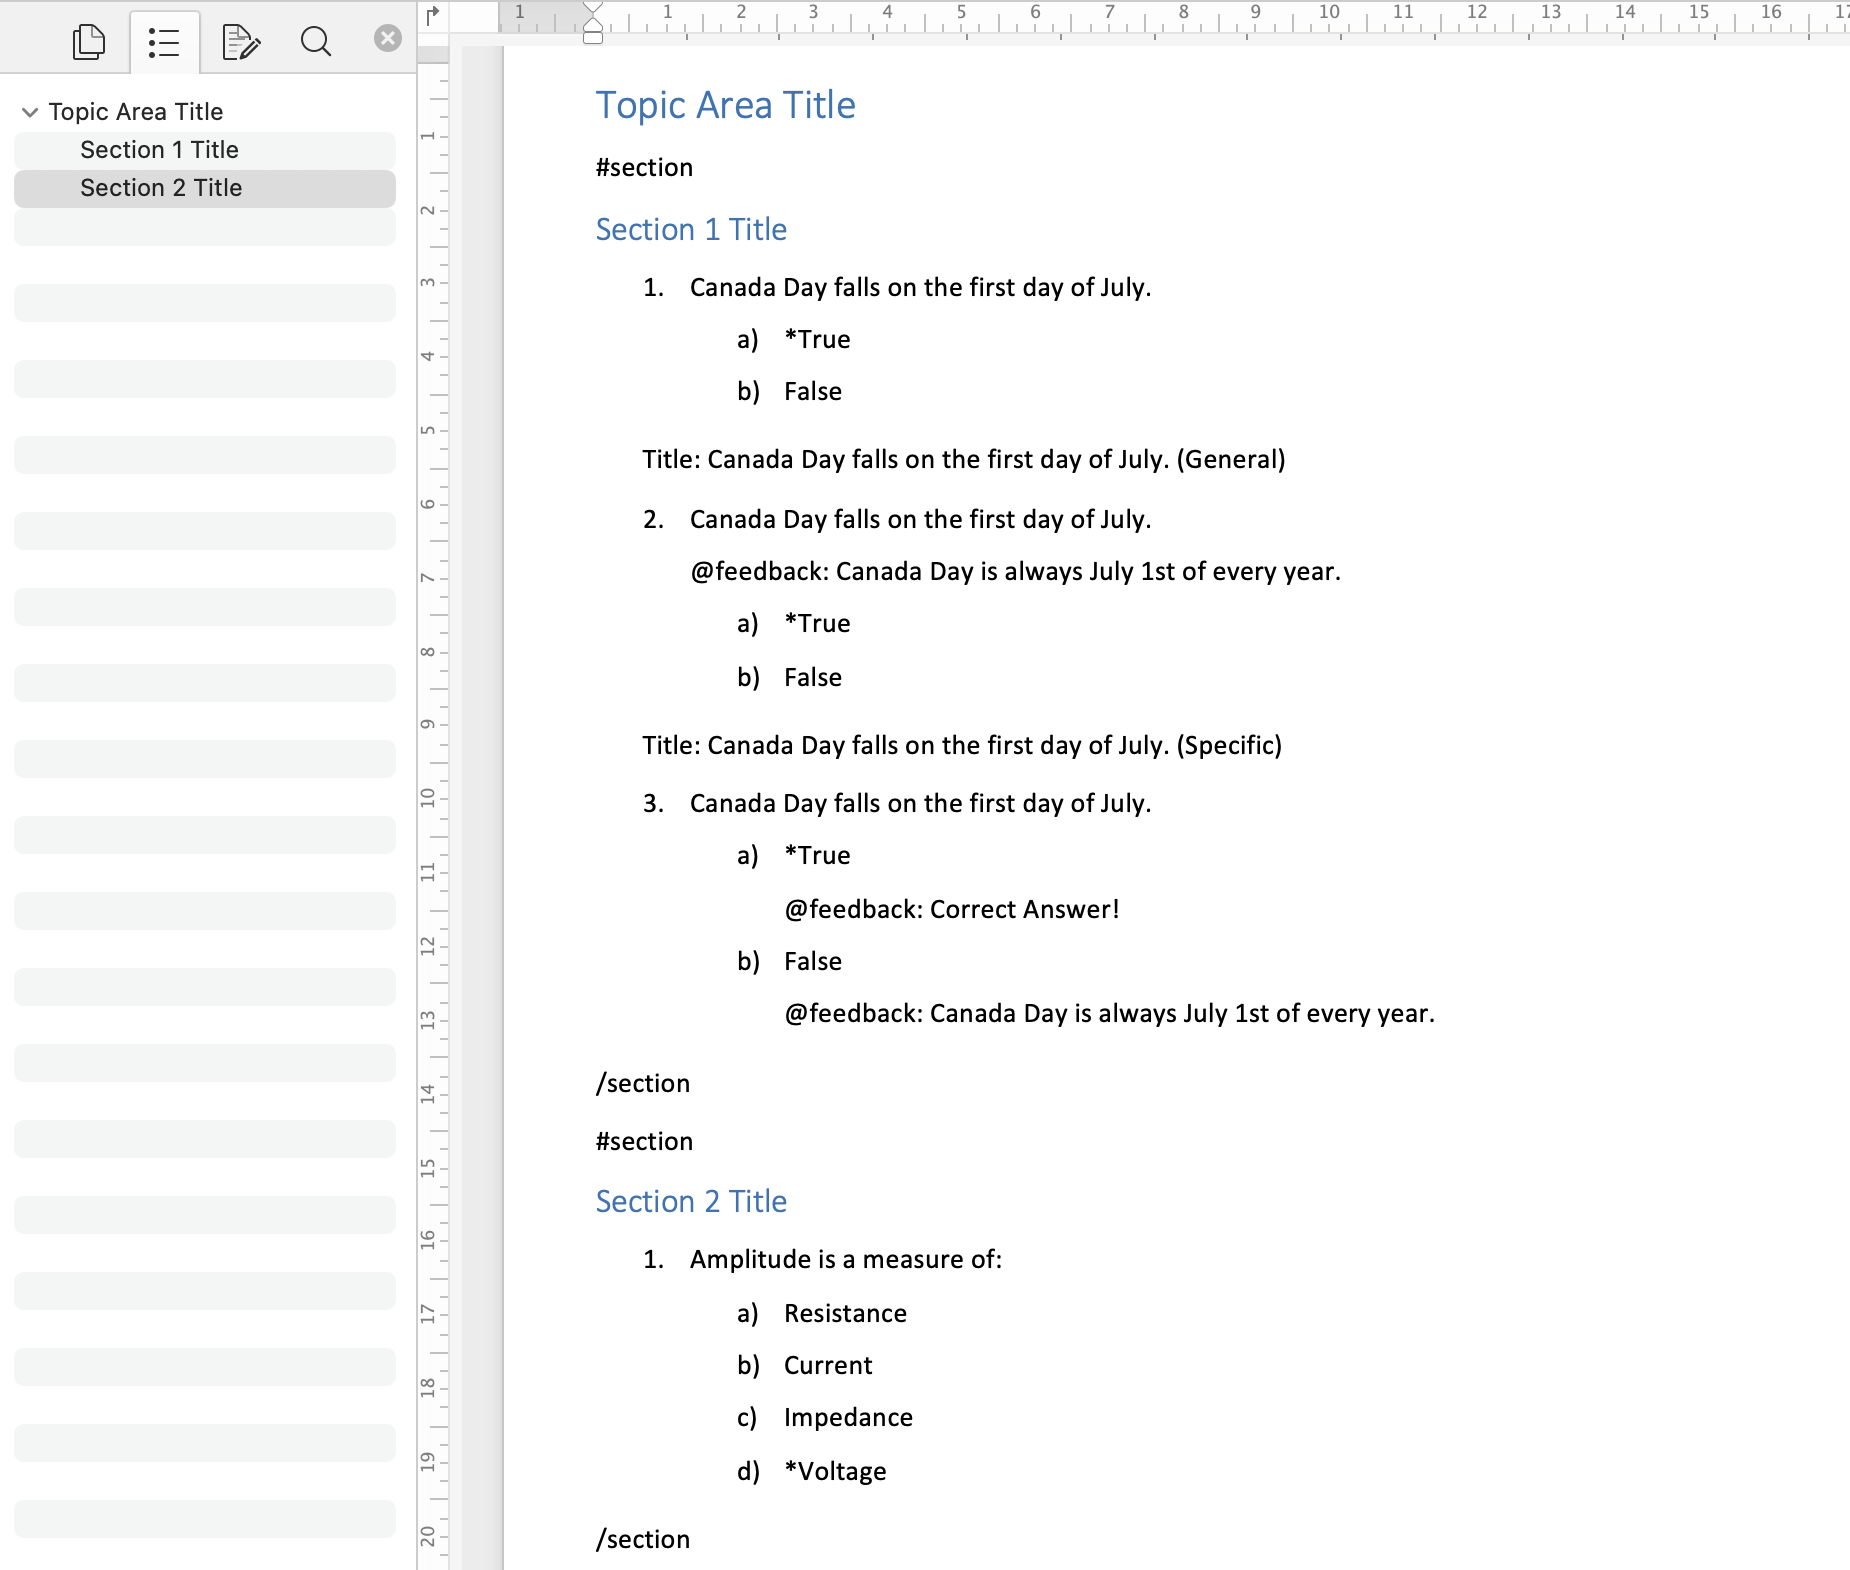
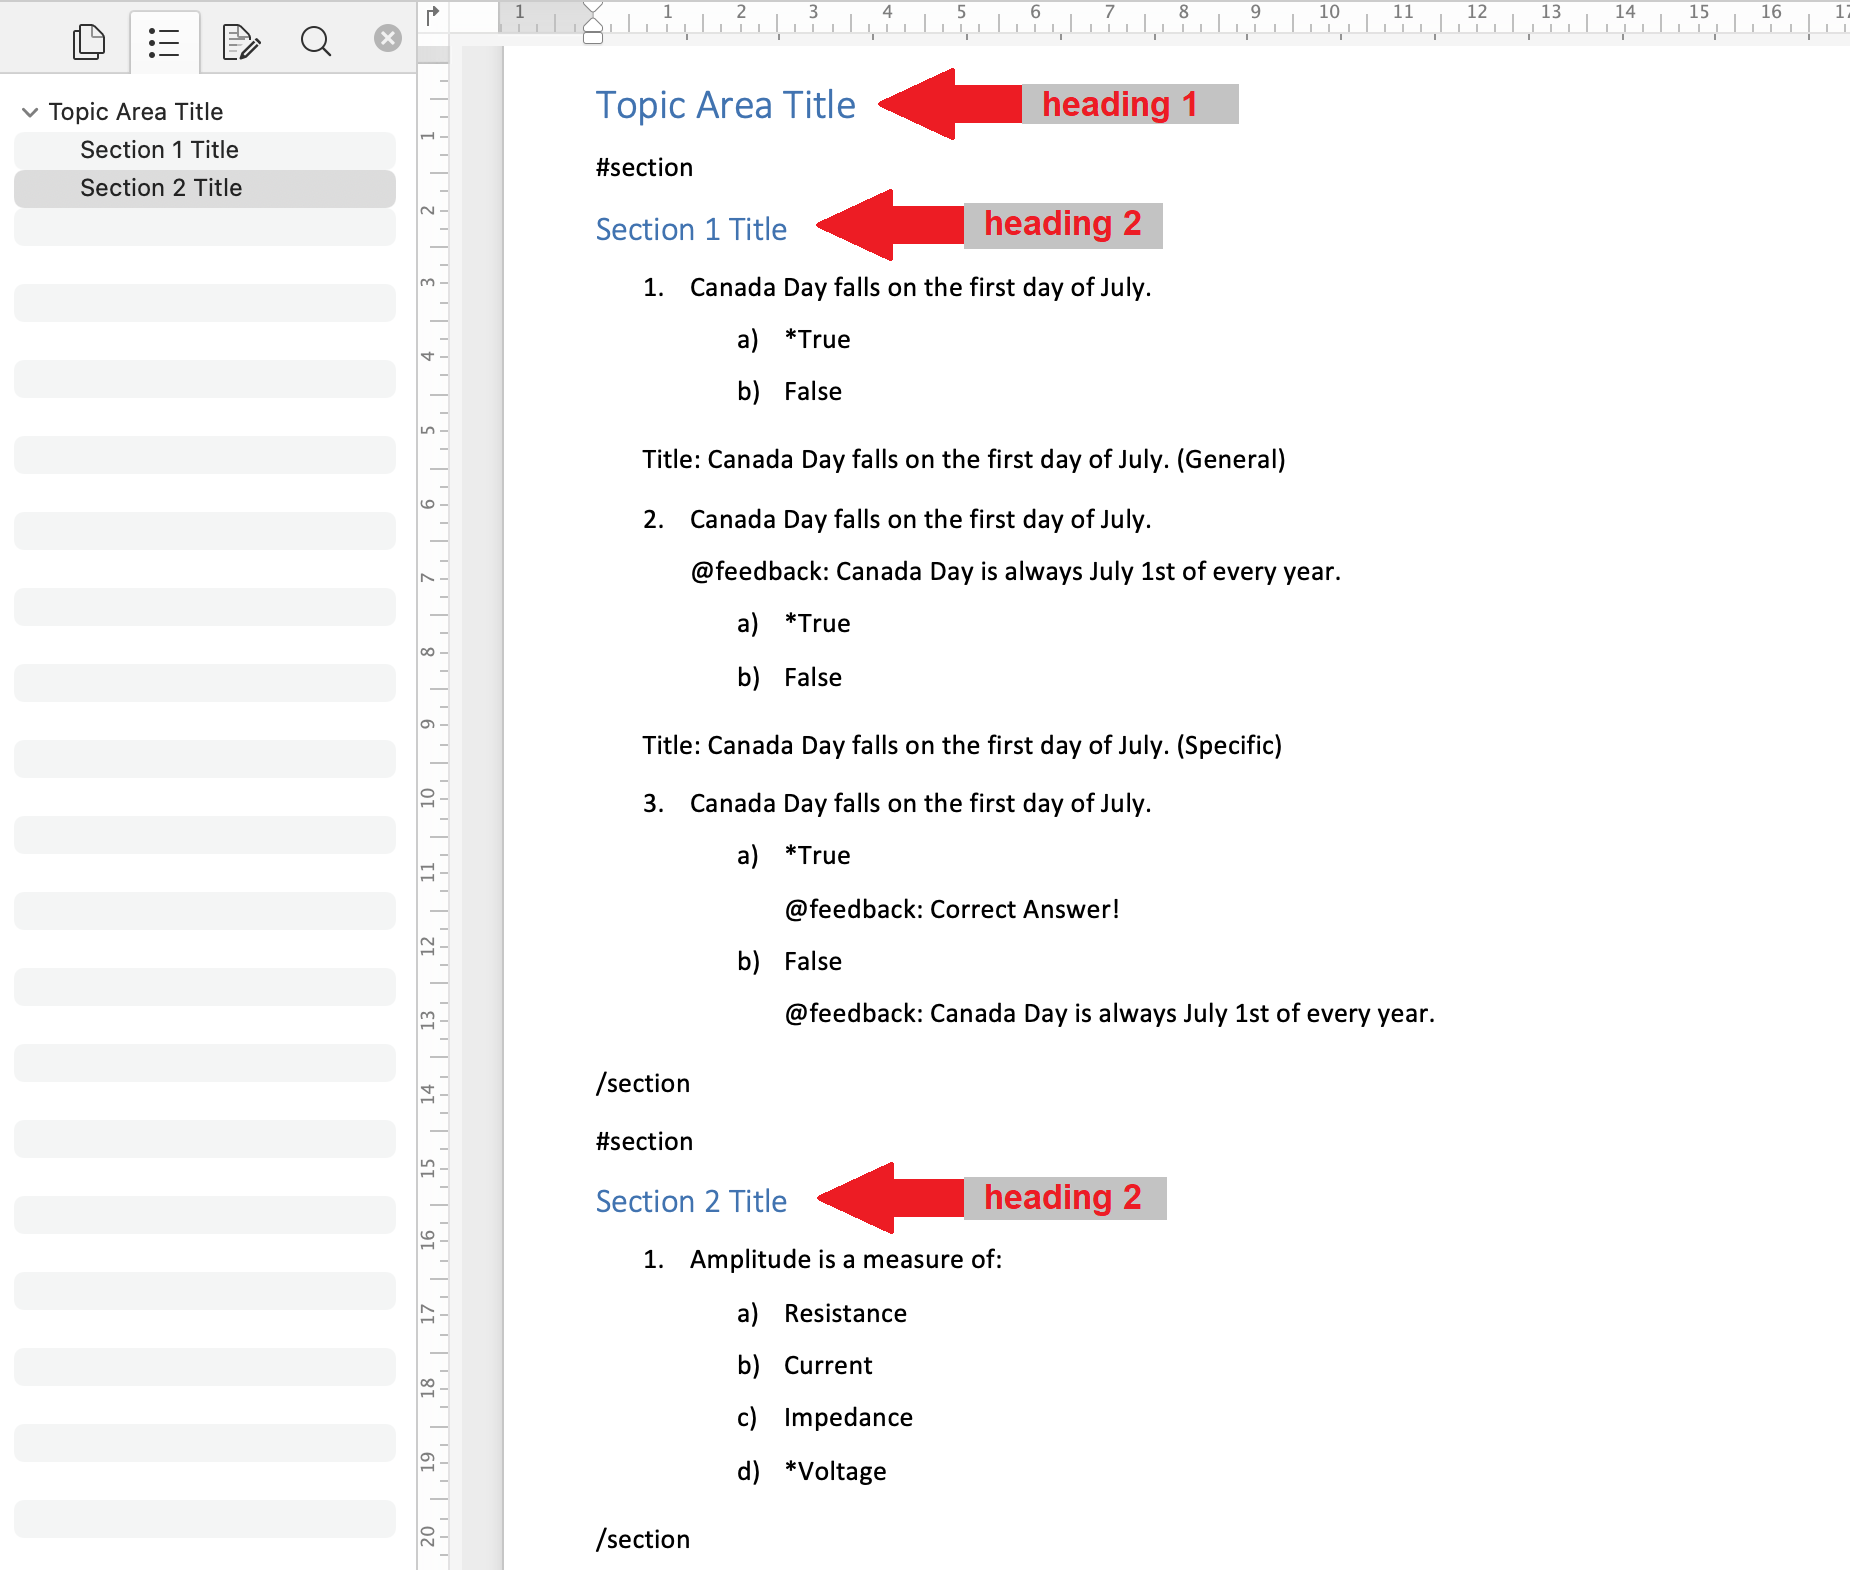
fix: optional 'Type:' and H1 and H2 for section headers

Changed region(s): [[0.4622, 0.0312, 0.6778, 0.0936], [0.4314, 0.1248, 0.647, 0.1873], [0.4314, 0.749, 0.647, 0.7803]]

diff --git a/docs/index.md b/docs/index.md
@@ -15,6 +15,18 @@ title: Overview
 
 To use Qcon your Word file needs to follow some simple formatting rules.
 
+!!! note "Question types"
+
+    !!! info inline end ""
+
+        | :fontawesome-solid-check:{ .green .larger }                                        | :fontawesome-solid-check:{ .green .larger }              |
+        |:----------------------------------------------------------------------------------:|:------------------------------------------------------:|
+        | <br>1. ... &nbsp; &nbsp;<br> &nbsp;a. *...<br>b. ...<br><br><br>1. ... &nbsp; &nbsp;<br> &nbsp;A. \*... <br> B. ... | Type: MC &nbsp; &nbsp;<br> &nbsp; 1. ... &nbsp; &nbsp;<br> &nbsp;\*a. ...<br> &nbsp;b. ...<br> <br> Type: MC &nbsp; &nbsp;<br> 1. ... &nbsp; &nbsp;<br> &nbsp;*A. ... <br> &nbsp;B. ... |
+
+    - No need to specify the question `Type:` for [basic question types](./basic-question-types.md).
+    
+
+
 !!! note "Question numbering"
 
     !!! info inline end ""

diff --git a/docs/additional-info/sections.md b/docs/additional-info/sections.md
@@ -6,7 +6,8 @@ Questions can be grouped into separate sections.
 
     - start a new section with **`#section`**
     - end a section with **`/section`**
-    - use Word *Heading styles* to specify section names
+    - use Word *Heading 1* at the start of the Document to name the Quiz
+    - use Word *Heading 2* to specify section names
 
 === "Text"
 
